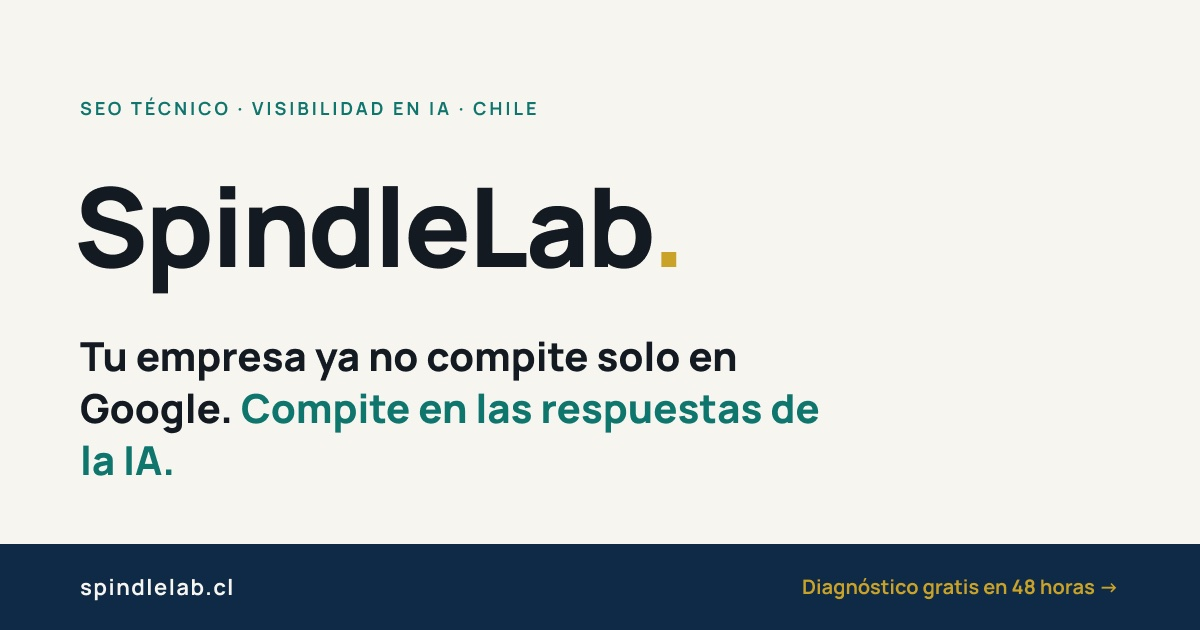
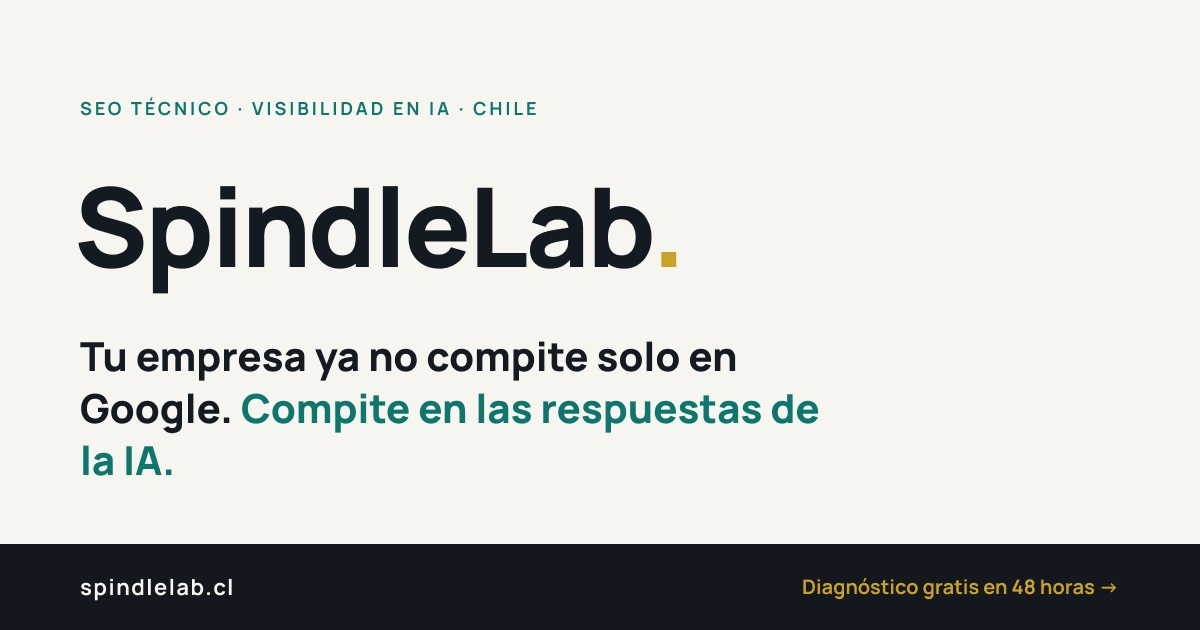
Switch dark sections from navy to ink black per client direction

Changed region(s): [[0.0, 0.8444, 1.0, 1.0]]

diff --git a/spindlelab-site/assets/css/style.css b/spindlelab-site/assets/css/style.css
@@ -8,7 +8,7 @@
   --ink:#131A22;
   --ink-70:rgba(19,26,34,.7);
   --ink-50:rgba(19,26,34,.5);
-  --navy:#0E2A47;
+  --navy:#14171D; /* "versión en negro": las secciones oscuras usan negro tinta, no azul */
   --gold:#C9A227;
   --gold-2:#DCB52F;
   --teal:#0F766E;